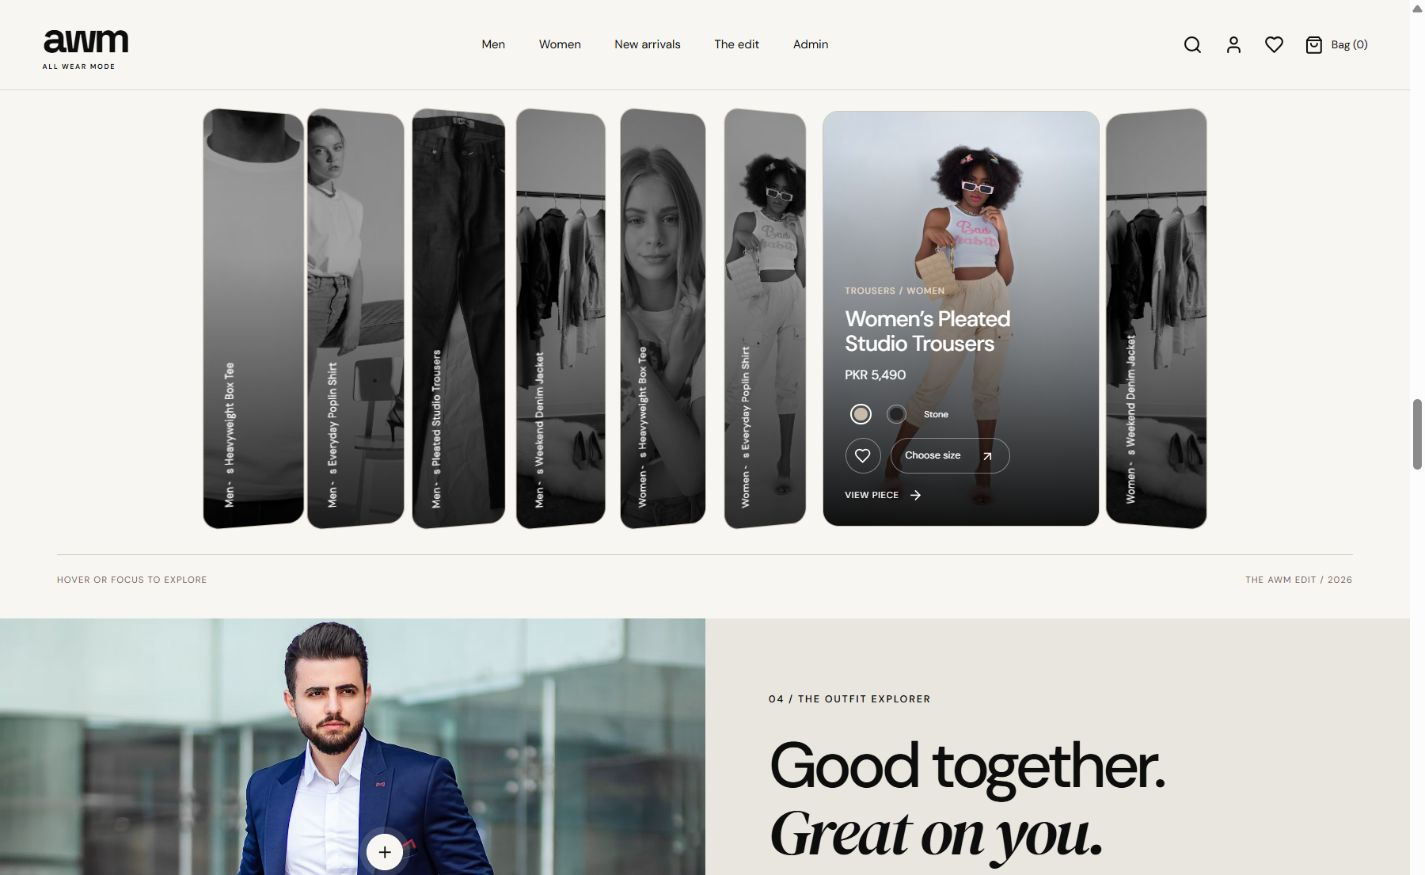
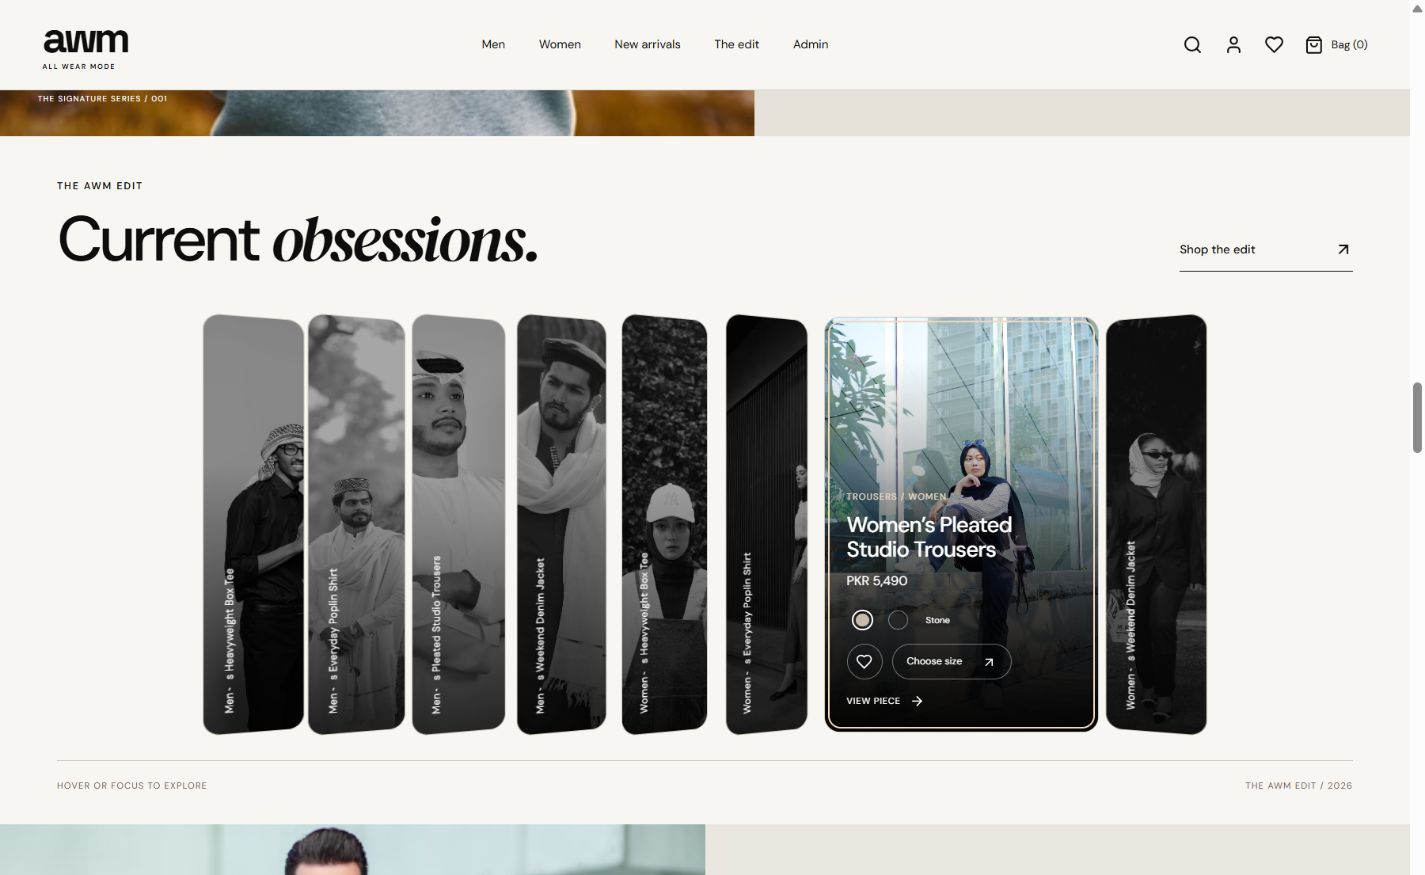
Smooth hover gallery transitions and add modest fashion imagery

diff --git a/src/components/lightswind/3d-hover-gallery.tsx b/src/components/lightswind/3d-hover-gallery.tsx
@@ -38,12 +38,14 @@ export interface ThreeDHoverGalleryProps {
 
 export default function ThreeDHoverGallery({
   images, items, itemHeight = 420, gap = 10, perspective = 1000,
-  hoverScale = 1.05, transitionDuration = .5, enableKeyboardNavigation = true,
+  hoverScale = 1.04, transitionDuration = .65, enableKeyboardNavigation = true,
   autoPlay = false, autoPlayDelay = 4000, className, style,
   onImageClick, onImageHover, renderActions, renderStaticItem,
 }: ThreeDHoverGalleryProps) {
   const containerRef = useRef<HTMLDivElement>(null);
   const buttons = useRef<Array<HTMLButtonElement | null>>([]);
+  const hoverIntent = useRef<ReturnType<typeof setTimeout> | null>(null);
+  const leaveIntent = useRef<ReturnType<typeof setTimeout> | null>(null);
   const [activeIndex, setActiveIndex] = useState<number | null>(null);
   const [narrow, setNarrow] = useState(false);
   const [interacting, setInteracting] = useState(false);
@@ -54,6 +56,11 @@ export default function ThreeDHoverGallery({
   })) ?? [], [items, images]);
   const count = galleryItems.length;
   const selected = count ? (narrow ? activeIndex ?? 0 : activeIndex) : null;
+  const ease = [.22, 1, .36, 1] as const;
+
+  const cancelHover = () => { if (hoverIntent.current) clearTimeout(hoverIntent.current); hoverIntent.current = null; };
+  const cancelLeave = () => { if (leaveIntent.current) clearTimeout(leaveIntent.current); leaveIntent.current = null; };
+  useEffect(() => () => { cancelHover(); cancelLeave(); }, []);
 
   useEffect(() => {
     const node = containerRef.current;
@@ -71,7 +78,7 @@ export default function ThreeDHoverGallery({
     return () => clearInterval(timer);
   }, [autoPlay, autoPlayDelay, count, reduced, interacting]);
 
-  const activate = (index: number) => setActiveIndex(index);
+  const activate = (index: number) => { cancelHover(); cancelLeave(); setActiveIndex(index); };
   const keyDown = (event: KeyboardEvent<HTMLButtonElement>, index: number) => {
     if (!enableKeyboardNavigation) return;
     const next = event.key === "ArrowLeft" ? (index - 1 + count) % count
@@ -93,7 +100,9 @@ export default function ThreeDHoverGallery({
 
   return <div className={cn("hover-gallery", className)} style={style}>
     <div ref={containerRef} className={`hover-gallery-viewport ${narrow ? "is-narrow" : ""}`} role="region" aria-label="Trending 3D hover gallery"
-      onMouseLeave={() => { if (!document.activeElement?.closest('[role="dialog"]') && !containerRef.current?.contains(document.activeElement)) { setInteracting(false); if (!narrow) setActiveIndex(null); } }}
+      style={{ "--gallery-duration": `${transitionDuration}s` } as CSSProperties}
+      onMouseEnter={cancelLeave}
+      onMouseLeave={() => { cancelHover(); cancelLeave(); leaveIntent.current = setTimeout(() => { if (!document.activeElement?.closest('[role="dialog"]') && !containerRef.current?.contains(document.activeElement)) { setInteracting(false); if (!narrow) setActiveIndex(null); } }, 140); }}
       onFocusCapture={() => setInteracting(true)}
       onBlurCapture={event => { if (event.relatedTarget instanceof Element && event.relatedTarget.closest('[role="dialog"]')) return; if (!event.currentTarget.contains(event.relatedTarget as Node | null)) { setInteracting(false); if (!narrow) setActiveIndex(null); } }}>
       <div className="hover-gallery-track" style={{ perspective, gap }}>
@@ -101,23 +110,24 @@ export default function ThreeDHoverGallery({
           const isActive = selected === index;
           return <motion.article key={item.href || index} className={`hover-gallery-card ${isActive ? "is-active" : ""} ${selected !== null ? "has-selection" : ""}`} data-index={index}
             animate={{ rotateY: narrow || selected === null ? 0 : index < selected ? 24 : index > selected ? -24 : 0 }}
-            transition={{ rotateY: { type: "spring", stiffness: 90, damping: 15 } }}
+            transition={{ rotateY: { duration: transitionDuration, ease } }}
             style={{ height: itemHeight, zIndex: isActive ? 20 : 10, flexGrow: isActive ? 3 : 1 }}
             onTransitionEnd={event => {
               if (narrow && isActive && event.target === event.currentTarget && event.propertyName === "flex-basis") buttons.current[index]?.scrollIntoView({ block: "nearest", inline: "center", behavior: "smooth" });
             }}
-            onPointerEnter={event => { if (event.pointerType === "mouse" && !narrow) { setInteracting(true); activate(index); onImageHover?.(index, item); } }}
+            onPointerEnter={event => { cancelLeave(); if (event.pointerType === "mouse" && !narrow) { cancelHover(); setInteracting(true); hoverIntent.current = setTimeout(() => { activate(index); onImageHover?.(index, item); }, 80); } }}
+            onPointerLeave={cancelHover}
             onFocusCapture={() => activate(index)}>
-            <motion.div className="hover-gallery-photo" animate={{ scale: isActive ? hoverScale : 1 }} transition={{ duration: transitionDuration, ease: [.1, .7, 0, 1] }}>
+            <motion.div className="hover-gallery-photo" animate={{ scale: isActive ? hoverScale : 1 }} transition={{ duration: transitionDuration, ease }}>
               <Image src={item.url} alt={item.title} sizes="(max-width: 800px) 280px, 50vw" loading="lazy" draggable={false} />
             </motion.div>
             <div className="hover-gallery-shade" aria-hidden="true" />
             <button ref={node => { buttons.current[index] = node; }} className="hover-gallery-select" aria-label={`Explore ${item.title}`} aria-expanded={isActive} aria-controls={isActive ? `${id}-${index}` : undefined}
               onClick={() => { activate(index); onImageClick?.(index, item); }} onKeyDown={event => keyDown(event, index)} />
-            {!isActive && <span className="hover-gallery-strip-title" aria-hidden="true">{item.title}</span>}
+            <motion.span className="hover-gallery-strip-title" aria-hidden="true" animate={{ opacity: isActive ? 0 : 1 }} transition={{ duration: .2 }}>{item.title}</motion.span>
             <AnimatePresence initial={false}>
               {isActive && <motion.div id={`${id}-${index}`} className="hover-gallery-details" key="details"
-                initial={{ opacity: 0, y: 12 }} animate={{ opacity: 1, y: 0 }} exit={{ opacity: 0 }} transition={{ duration: .2 }}>
+                initial={{ opacity: 0, y: 10 }} animate={{ opacity: 1, y: 0, transition: { duration: .35, delay: .12, ease } }} exit={{ opacity: 0, transition: { duration: .12 } }}>
                 <p className="hover-gallery-category">{item.category}</p>
                 <h3>{item.title}</h3>
                 <p className="hover-gallery-description">{item.description}</p>

diff --git a/src/styles/editorial-effects.css b/src/styles/editorial-effects.css
@@ -3,15 +3,15 @@
 .hover-gallery { width: 100%; max-width: 1040px; margin-inline: auto; container-type: inline-size; --gallery-inset: 18px; }
 .hover-gallery-viewport { padding: 24px var(--gallery-inset); overflow: clip; }
 .hover-gallery-track { display: flex; width: 100%; align-items: center; justify-content: center; transform-style: preserve-3d; pointer-events: none; }
-.hover-gallery-card { position: relative; flex-basis: 0; min-width: 60px; border: 1px solid #cfc7bb; border-radius: 16px; overflow: hidden; isolation: isolate; transform-style: flat; pointer-events: auto; transition: flex-grow .5s cubic-bezier(.22,1,.36,1); background: #e5ded4; }
-.hover-gallery-card.is-active { min-width: 280px; max-width: 320px; }
+.hover-gallery-card { position: relative; flex-basis: 0; min-width: 0; max-width: 320px; border: 1px solid #cfc7bb; border-radius: 16px; overflow: hidden; isolation: isolate; transform-style: flat; pointer-events: auto; transition: flex-grow var(--gallery-duration,.65s) cubic-bezier(.22,1,.36,1); background: #e5ded4; }
 .hover-gallery-photo, .hover-gallery-shade, .hover-gallery-select { position: absolute; inset: 0; width: 100%; height: 100%; }
-.hover-gallery-photo { pointer-events: none; filter: grayscale(.25) brightness(.85); transition: filter .3s; }
+.hover-gallery-photo { pointer-events: none; filter: grayscale(.25) brightness(.85); transition: filter var(--gallery-duration,.65s) cubic-bezier(.22,1,.36,1); }
 .hover-gallery-photo img { width: 100%; height: 100%; object-fit: cover; }
 .hover-gallery-card.has-selection:not(.is-active) .hover-gallery-photo { filter: grayscale(1) brightness(.65); }
 .hover-gallery-card.is-active .hover-gallery-photo { filter: none; }
 .hover-gallery-shade { pointer-events: none; background: linear-gradient(0deg,#000b,transparent 65%); }
-.hover-gallery-card.is-active .hover-gallery-shade { background: linear-gradient(0deg,#000e 0%,#0006 50%,transparent 90%); }
+.hover-gallery-shade::after { content: ""; position: absolute; inset: 0; background: linear-gradient(0deg,#000e 0%,#0006 50%,transparent 90%); opacity: 0; transition: opacity var(--gallery-duration,.65s) cubic-bezier(.22,1,.36,1); }
+.hover-gallery-card.is-active .hover-gallery-shade::after { opacity: 1; }
 .hover-gallery-select { z-index: 1; border-radius: inherit; cursor: pointer; }
 .hover-gallery-select:focus-visible { outline: 2px solid #f3d8bc; outline-offset: -5px; }
 .hover-gallery-strip-title { position: absolute; left: 16px; bottom: 20px; max-height: 70%; writing-mode: vertical-rl; transform: rotate(180deg); font-size: 10px; letter-spacing: .03em; color: #fff; pointer-events: none; overflow: hidden; }
@@ -36,7 +36,7 @@
 .trending-static-grid { display: grid; grid-template-columns: repeat(4,minmax(0,1fr)); gap: 22px; margin-top: 30px; }
 .hover-gallery-viewport.is-narrow { overflow-x: auto; overscroll-behavior-x: contain; scrollbar-width: none; touch-action: pan-x pan-y; }
 .hover-gallery-viewport.is-narrow .hover-gallery-track { width: max-content; min-width: 100%; justify-content: start; }
-.hover-gallery-viewport.is-narrow .hover-gallery-card { flex: 0 0 64px !important; width: 64px; min-width: 64px; transition: width .45s, flex-basis .45s; }
+.hover-gallery-viewport.is-narrow .hover-gallery-card { flex: 0 0 64px !important; width: 64px; min-width: 64px; transition: width var(--gallery-duration,.65s) cubic-bezier(.22,1,.36,1), flex-basis var(--gallery-duration,.65s) cubic-bezier(.22,1,.36,1); }
 .hover-gallery-viewport.is-narrow .hover-gallery-card.is-active { width: min(280px,calc(100cqw - var(--gallery-inset) * 2)); flex-basis: min(280px,calc(100cqw - var(--gallery-inset) * 2)) !important; min-width: 0; }
 @media (max-width: 800px) {
   .trending-static-grid { grid-template-columns: repeat(2,minmax(0,1fr)); gap: 16px; }

diff --git a/src/data.ts b/src/data.ts
@@ -145,6 +145,17 @@ const names = [
     "Studio Sweatshirt",
   ],
 ];
+// Local editorial references for the eight pieces featured in the home gallery.
+// Source pages and photographer credits are recorded in docs/fashion-image-sources.md.
+const modestEditorialImages: Record<string, string[]> = Object.fromEntries(
+  [["p1", 8422463], ["p6", 8565461], ["p13", 5416865], ["p18", 35565653],
+   ["p25", 31175112], ["p30", 30334302], ["p37", 30611702], ["p42", 33713362]]
+    .map(([id, photoId]) => [id, [`/images/modest-fashion/${photoId}.jpg`]]),
+);
+const legacyImages = (gender: Gender, category: string, n: number) =>
+  gender === "Women" && womenShots[category]
+    ? womenShots[category]
+    : [shots[category][n % 2], shots[category][(n + 1) % 2]];
 export const seedProducts: Product[] = Array.from({ length: 48 }, (_, i) => {
   const gender: Gender = i < 24 ? "Men" : "Women";
   const n = i % 24;
@@ -164,10 +175,7 @@ export const seedProducts: Product[] = Array.from({ length: 48 }, (_, i) => {
     description: `An easy ${category.toLowerCase().replace(/s$/, "")} with a considered fit and a clean silhouette. Made for layering, moving, and making it your own. Part of the AWM everyday edit.`,
     price:
       [2490, 4490, 5990, 5490, 8490, 6490][Math.floor(n / 4)] + (n % 4) * 300,
-    images:
-      gender === "Women" && womenShots[category]
-        ? womenShots[category]
-        : [shots[category][n % 2], shots[category][(n + 1) % 2]],
+    images: modestEditorialImages[`p${i + 1}`] || legacyImages(gender, category, n),
     sizes,
     colors,
     stock: Object.fromEntries(
@@ -181,6 +189,16 @@ export const seedProducts: Product[] = Array.from({ length: 48 }, (_, i) => {
     active: true,
   };
 });
+export function refreshProductImagery(product: Product): Product {
+  const seed = seedProducts.find(candidate => candidate.id === product.id);
+  if (!seed || !modestEditorialImages[product.id] || !product.images.length) return product;
+  const n = (Number(seed.id.slice(1)) - 1) % 24;
+  const original = legacyImages(seed.gender, seed.category, n);
+  // Keep admin uploads and every other stored product field intact.
+  return product.images.every(image => original.includes(image))
+    ? { ...product, images: seed.images }
+    : product;
+}
 export const seedProfiles: Profile[] = [
   { name: "Demo Customer One", email: "customer.one@example.test" },
   { name: "Demo Customer Two", email: "customer.two@example.test" },

diff --git a/src/store.test.ts b/src/store.test.ts
@@ -1,5 +1,5 @@
 import { beforeEach, describe, expect, it } from "vitest";
-import { seedProducts, seedProfiles, variantKey, itemKey } from "./data";
+import { seedProducts, seedProfiles, variantKey, itemKey, photo } from "./data";
 const memory = new Map<string, string>();
 Object.defineProperty(globalThis, "localStorage", {
   value: {
@@ -52,6 +52,26 @@ describe("catalogue integrity", () => {
   });
 });
 describe("persistent shopping and inventory", () => {
+  it("refreshes legacy gallery imagery without changing shopping state or admin uploads", async () => {
+    const products = structuredClone(seedProducts);
+    products[0].images = [photo("photo-1521572163474-6864f9cf17ab"), photo("photo-1521572163474-6864f9cf17ab", 1400)];
+    products[0].price = 3333;
+    products[0].stock["Stone|M"] = 3;
+    products[5].images = ["/admin-upload.jpg"];
+    memory.set("awm-demo-v1", JSON.stringify({ version: 1, state: {
+      products, cart: [item], wishlist: ["p1"], orders: [], profiles: seedProfiles, session: details.customer,
+    } }));
+    await useStore.persist.rehydrate();
+    const state = useStore.getState();
+    expect(state.products[0].images).toEqual(seedProducts[0].images);
+    expect(state.products[0].price).toBe(3333);
+    expect(state.products[0].stock["Stone|M"]).toBe(3);
+    expect(state.products[5].images).toEqual(["/admin-upload.jpg"]);
+    expect(state.cart).toEqual([item]);
+    expect(state.wishlist).toEqual(["p1"]);
+    expect(state.session).toEqual(details.customer);
+    expect(JSON.parse(memory.get("awm-demo-v1")!).version).toBe(2);
+  });
   it("preserves variants and merges only equal variants", () => {
     const s = useStore.getState();
     s.add(item);

diff --git a/src/store.ts b/src/store.ts
@@ -1,6 +1,6 @@
 import { create } from "zustand";
 import { persist } from "zustand/middleware";
-import { seedProducts, seedProfiles, variantKey, itemKey } from "./data";
+import { seedProducts, seedProfiles, variantKey, itemKey, refreshProductImagery } from "./data";
 import type { Product, CartItem, Profile, Order } from "./data";
 interface State {
   products: Product[];
@@ -193,8 +193,8 @@ export const useStore = create<State>()(
     }),
     {
       name: "awm-demo-v1",
-      version: 1,
-      migrate: (persisted) => {
+      version: 2,
+      migrate: (persisted, version) => {
         const previous = persisted as Partial<State>;
         return {
           cart: previous.cart || [],
@@ -204,6 +204,7 @@ export const useStore = create<State>()(
           session: previous.session || null,
           products:
             previous.products?.map((p) => {
+              if (version >= 1) return refreshProductImagery(p);
               const seed = seedProducts.find((seed) => seed.id === p.id);
               return seed ? { ...p, images: seed.images } : p;
             }) || seedProducts,

diff --git a/README.md b/README.md
@@ -81,9 +81,11 @@ No backend, database, real authentication, email provider, payment processor, sh
 
 ## Trending hover gallery
 
-The homepage trending section uses Lightswind's 3D Hover Gallery, installed with `npx lightswind@latest add 3d-hover-gallery` and adapted to the supplied source reference. The gallery is centered with a maximum width of 1,040px; active product cards remain between 280px and 320px on desktop. Hover, focus or click expands a product while neighbouring panels tilt. Arrow keys and Home/End select products; Escape collapses the desktop selection. Autoplay is disabled.
+The homepage trending section uses Lightswind's 3D Hover Gallery, installed with `npx lightswind@latest add 3d-hover-gallery` and adapted to the supplied source reference. The gallery is centered with a maximum width of 1,040px; the expanded desktop card is approximately 280px at the maximum gallery width and scales down with its container. Width, tilt, zoom, shade and image filters share a 650ms easing curve, with 80ms pointer intent to prevent flickering across panels. Hover, focus or click expands a product while neighbouring panels tilt. Arrow keys and Home/End select products; Escape collapses the desktop selection. Autoplay is disabled.
 
 Product names, prices, colours, wishlist controls, product links and size-selected quick-add are connected to the existing catalogue and store. On narrow screens a contained horizontal gallery supports scrolling and tapping, and expanded cards fit the gallery's own width. Reduced motion displays the same products in a static grid.
+
+The eight featured products use local modest fashion editorial images, including hijab styling and traditional menswear. The same assets appear in their linked product pages and quick views. [Photo sources and credits](docs/fashion-image-sources.md) document these stock references. Storage version 2 refreshes only their previous default imagery, preserving admin uploads and shopping state.
 
 The previous 3D ring component and its rotation helpers were removed. Scroll Dissolve Reveal remains removed; the editorial campaign uses a regular image and collection link. Framer Motion handles the hover gallery, and the site's existing entrances use GSAP.
 

diff --git a/docs/QA.md b/docs/QA.md
@@ -98,3 +98,12 @@ The browser contains clearly named QA demo records from purchase testing; these 
 - At 320px the expanded panel fits its gallery container at approximately 237px wide, including all product controls, with zero horizontal document overflow. At 390px it is 280px wide. Horizontal overflow is contained inside the gallery.
 - Reduced motion retains a static product grid. The OS setting and physical touch hardware were not emulated; reduced motion is covered by the static-rendering test.
 - Production build and all 18 remaining tests passed: shopping state, readiness and static rendering. Captures: awm-hover-gallery-desktop.png and awm-hover-gallery-mobile.png.
+
+## Modest fashion imagery and smoother hover
+
+- The eight featured products now use local Pexels fashion references: traditional menswear and contemporary hijab styling. Gallery and linked product/quick-view surfaces share their catalogue image data. Credits are in fashion-image-sources.md.
+- Removed the instant active-card minimum-width change. Width, neighbouring tilt, zoom, shade and image filters use the same 650ms easing curve; pointer selection has 80ms intent and leaving has a short grace period. Product copy fades in after expansion starts.
+- Browser observations captured intermediate expansion widths from 121px through 176px, 216px and 263px to 276px, rather than an immediate jump. A pointer drag into a card selected it with no gallery control focused, verifying hover activation separately from keyboard selection.
+- At 1440px, the gallery stayed 1040px wide and its expanded card measured about 278px. All eight local images loaded. Quick view displayed the matching local image.
+- At 390px, the selected card settled at 280px with no horizontal document overflow. The product link opened the matching women’s piece with its new local photo. No browser warnings or errors were captured. Desktop and mobile screenshots were updated.
+- Production build and all 19 tests passed, including a storage-version migration test preserving cart, wishlist, profile, edited price/stock and an admin image upload.

diff --git a/docs/fashion-image-sources.md b/docs/fashion-image-sources.md
@@ -1,0 +1,16 @@
+# Modest fashion editorial references
+
+Downloaded 10 October 2026 from Pexels at 1,000px width. Local files live in `public/images/modest-fashion/` so the featured gallery imagery loads with the website. These are stock editorial references for this demo catalogue, not verified photography of AWM merchandise or endorsements by the pictured models. Product names, prices and colour variants remain demo data.
+
+Usage: [Pexels license](https://www.pexels.com/license/).
+
+| Featured product | Asset | Photographer | Source |
+| --- | --- | --- | --- |
+| p1 | 8422463.jpg | Pavel Danilyuk | [Black shirt and trousers with headscarf](https://www.pexels.com/photo/man-in-black-button-up-shirt-and-black-pants-8422463/) |
+| p6 | 8565461.jpg | Adnan Mughal Photographer | [Traditional menswear in Kasur](https://www.pexels.com/photo/bearded-man-wearing-a-thobe-8565461/) |
+| p13 | 5416865.jpg | Khaled Saleh | [White thawb](https://www.pexels.com/photo/a-man-in-a-thawb-5416865/) |
+| p18 | 35565653.jpg | Hamza Awan | [Shalwar kameez with shawl](https://www.pexels.com/photo/stylish-pakistani-man-in-traditional-shalwar-kameez-35565653/) |
+| p25 | 31175112.jpg | Sanhyolyn_ | [Casual hijab styling with overalls](https://www.pexels.com/photo/woman-in-casual-outdoor-outfit-by-lamppost-31175112/) |
+| p30 | 30334302.jpg | sara kazemi | [Monochrome hijab streetwear](https://www.pexels.com/photo/chic-woman-in-modern-hijab-fashion-outdoors-30334302/) |
+| p37 | 30611702.jpg | Febry Arya | [Urban hijab styling](https://www.pexels.com/photo/modern-urban-fashion-with-hijab-outdoors-30611702/) |
+| p42 | 33713362.jpg | bawasa photography | [Hijab with tailored suit](https://www.pexels.com/photo/stylish-woman-in-hijab-walking-outdoors-33713362/) |
